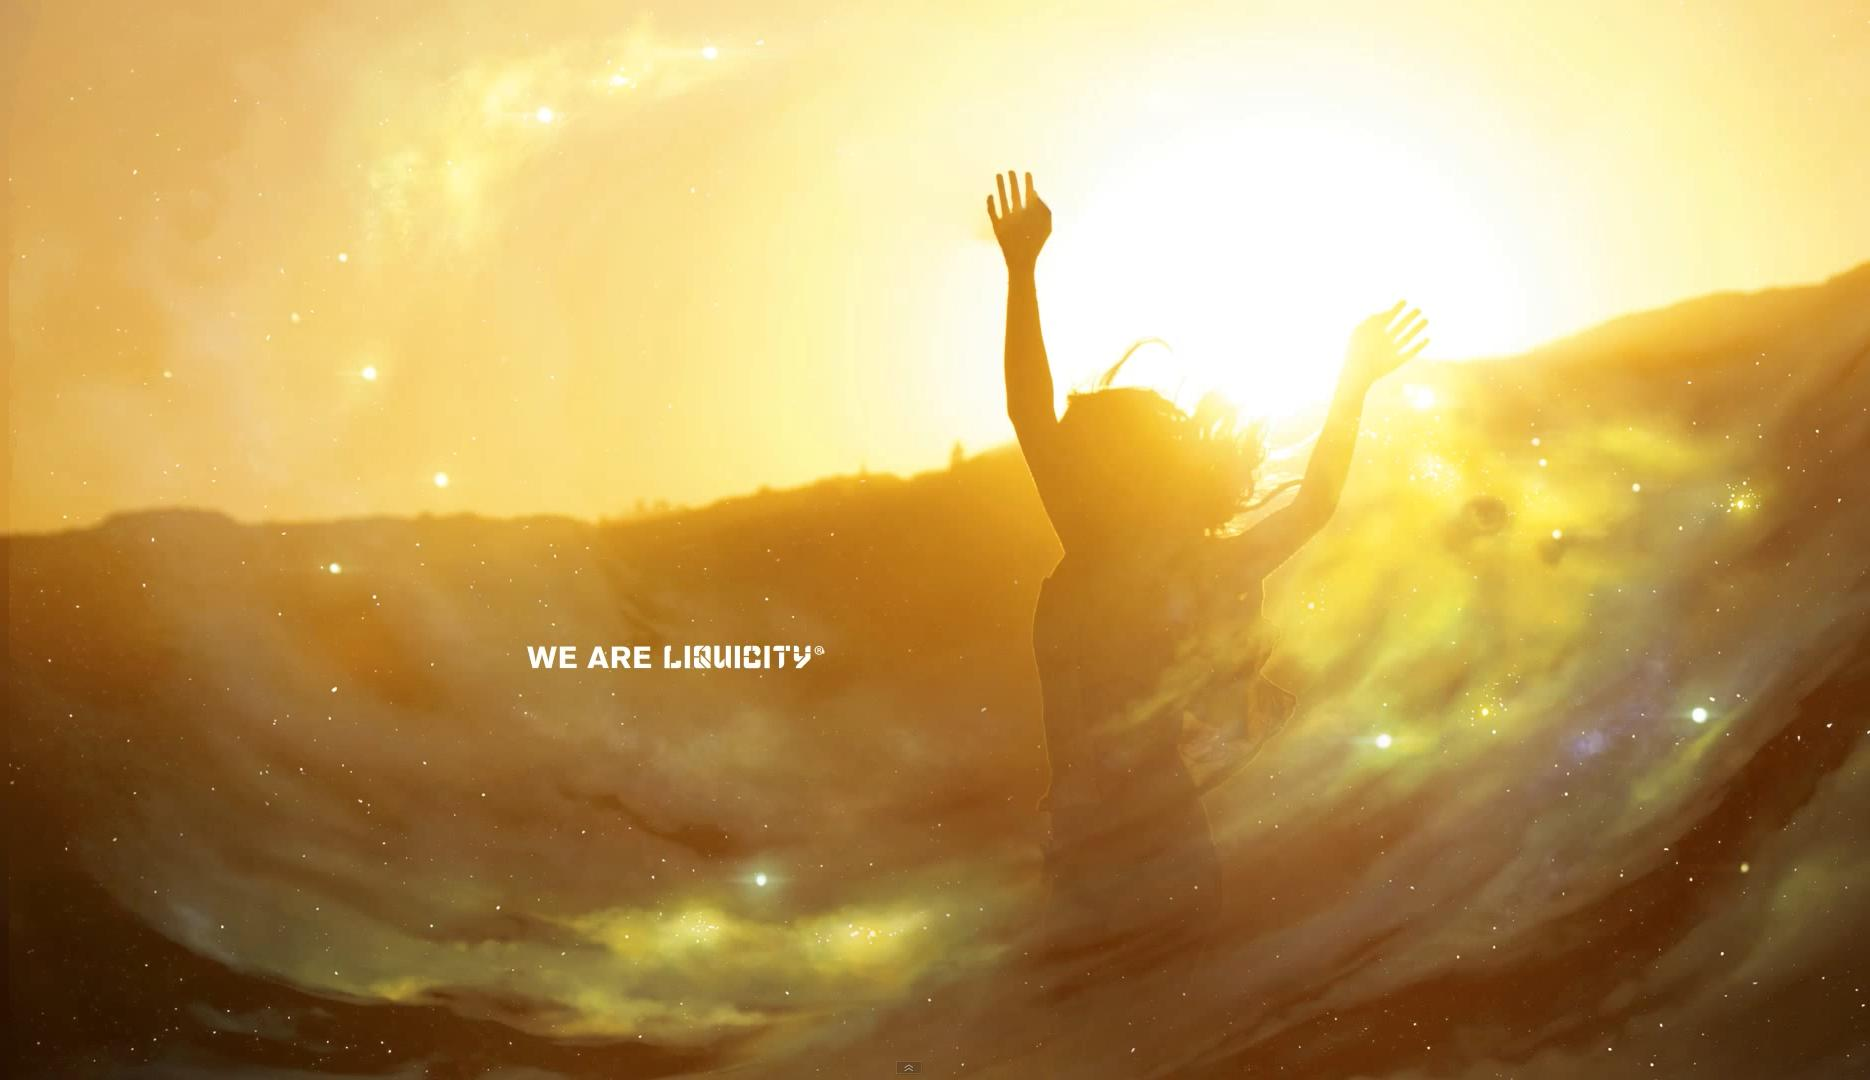
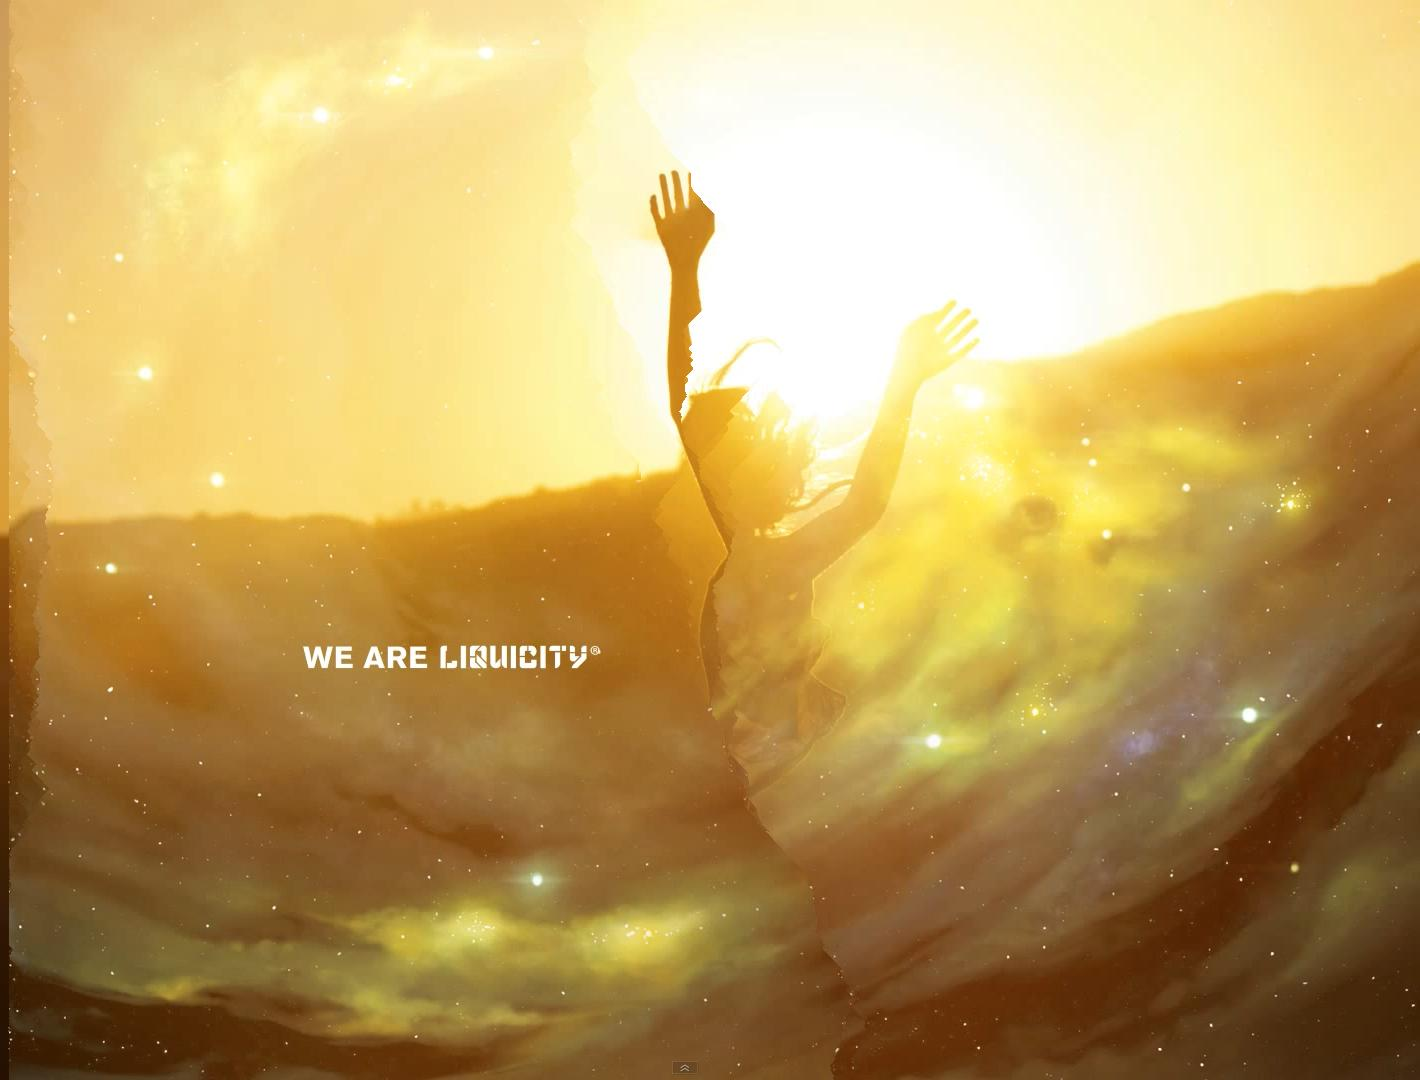
Rework

diff --git a/src/sample/Processor.java b/src/sample/Processor.java
@@ -1,96 +1,41 @@
 package sample;
-import javax.swing.*;
-import java.awt.*;
-import java.awt.image.*;
+import java.awt.image.BufferedImage;
 
 /**
  * Created by Lukado on 23. 11. 2016.
  */
 public class Processor {
 
-    public static void Processor(String args[]) {
+    public Processor() {
         SeamCarving sc = new SeamCarving();
         ImageLoader il = new ImageLoader();
-        int N = 50;	// number of seams want to remove
+        int N = 500;
 
-        // set file path
         String rawImageFilePath="img/weareliq.png";
         String energyImageFilePath="img/energy_weareliq.png";
+        String seamImageFilePath="img/seam_weareliq.png";
         String outputImageFilePath="img/result_weareliq.png";
 
-        // reading the input image
-        System.out.println("Reading input image...");
         BufferedImage rawImage = il.readImage(rawImageFilePath);
-        System.out.println("Successfully Read Image: "+rawImageFilePath);
 
-        // convert color image to gray image
-        System.out.println("\nConverting the image to Gray colors.");
         BufferedImage grayedOut = sc.grayOut(rawImage);
-        System.out.println("Successful...");
-
-        // calculate energy map
-        System.out.println("\nGetting energy image.");
+        il.writeImage(grayedOut, seamImageFilePath, "png");
         BufferedImage gradientImage = sc.gradientFilter(grayedOut);
-        System.out.println("Successful...");
-
-        // write energy map
-        System.out.println("\nWriting energy image to filesystems.");
         il.writeImage(gradientImage,energyImageFilePath , "jpg");
-        System.out.println("Successfully Wrote Image To: "+energyImageFilePath);
-
-        // read energy map
-        System.out.println("Reading input image...");
-        BufferedImage energyImage = il.readImage(energyImageFilePath);
-        System.out.println("Successfully Read Image: "+energyImageFilePath);
-
-        // enlarge energy map
-        System.out.println("\nGetting enlarge energy image.");
-        BufferedImage enlargeEnergyImg = sc.enlargeEnergy(energyImage);
-        System.out.println("Successful...");
-
-        // get cumulative energy map
-        System.out.println("\nGetting cumulative energy image.");
-        double[][] cumulativeEnergyArray = sc.getCumulativeEnergyArray(enlargeEnergyImg);
-        System.out.println("Successful...");
-
-        // iteratively doing seam carving
-        rawImage = il.readImage(rawImageFilePath);
-        double[][] new_cumulativeEnergyArray = cumulativeEnergyArray;
-        BufferedImage removePathImg = rawImage;
-        for (int n = 0; n < N; ++n){
-            System.out.println("\nFinding the path.");
-            int[] path  = sc.findPath(new_cumulativeEnergyArray);
-            System.out.println("Successful...");
-
-            System.out.println("\nRemoving the path in energy array.");
-            new_cumulativeEnergyArray = sc.removePathEnergyArray(new_cumulativeEnergyArray, path);
-            System.out.println("Successful...");
-
-            System.out.println("\nRemoving the path.");
-            removePathImg = sc.removePathFromImage(removePathImg, path);
-            System.out.println("Successful...");
-        }
-
-        // save result
-        System.out.println("\nWriting average image to filesystems.");
-        il.writeImage(removePathImg,outputImageFilePath , "jpg");
-        System.out.println("Successfully Wrote Image To: "+outputImageFilePath);
-
-        // display result
-        display(removePathImg);
-//        System.exit(0);
-    }
-
-
-    /**
-     * This method display an image from the input buffered image
-     * @return void --> display the image in the frame
-     */
-    public static void display(BufferedImage img){
-        JFrame frame = new JFrame("Title of the window :)");
-        JLabel label = new JLabel(new ImageIcon(img));
-        frame.getContentPane().add(label, BorderLayout.CENTER);
-        frame.pack();
-        frame.setVisible(true);
+//
+//        BufferedImage energyImage = il.readImage(energyImageFilePath);
+//        BufferedImage enlargeEnergyImg = sc.enlargeEnergy(energyImage);
+//        double[][] cumulativeEnergyArray = sc.getCumulativeEnergyArray(enlargeEnergyImg);
+//        rawImage = il.readImage(rawImageFilePath);
+//
+//        double[][] new_cumulativeEnergyArray = cumulativeEnergyArray;
+//        BufferedImage removePathImg = rawImage;
+//        for (int n = 0; n < N; ++n){
+//            int[] path  = sc.findPath(new_cumulativeEnergyArray);
+//            new_cumulativeEnergyArray = sc.removePathEnergyArray(new_cumulativeEnergyArray, path);
+//            removePathImg = sc.removePathFromImage(removePathImg, path);
+//        }
+//
+//        il.writeImage(removePathImg, outputImageFilePath, "jpg");
     }
 }

diff --git a/src/sample/Main.java b/src/sample/Main.java
@@ -12,17 +12,16 @@ import javafx.stage.Stage;
 public class Main extends Application {
 
     /** Sirka okna */
-    private static final int WIDTH = 1024;
+    private static final int WIDTH = 800;
     /** Vyska okna */
-    private static final int HEIGHT = 768;
+    private static final int HEIGHT = 600;
 
 
     @Override
     public void start(Stage primaryStage) throws Exception {
         Parent root = FXMLLoader.load(getClass().getResource("sample.fxml"));
-        primaryStage.setTitle("UFO Medical");
+        primaryStage.setTitle("SeamCarving - Petr Lukašík - PRO");
         primaryStage.setScene(new Scene(root, WIDTH, HEIGHT));
-        primaryStage.setMaximized(true);
         primaryStage.show();
     }
 

diff --git a/src/sample/SeamCarving.java b/src/sample/SeamCarving.java
@@ -25,7 +25,7 @@ public class SeamCarving {
      */
     public BufferedImage gradientFilter (BufferedImage img){
         int type = img.getType();
-        System.out.println("image type is" + type);
+        System.out.println("image type is " + type);
         int width = img.getWidth();
         int height = img.getHeight();
         BufferedImage temp_img1 = new BufferedImage(width, height, type);

diff --git a/src/sample/Controller.java b/src/sample/Controller.java
@@ -1,7 +1,13 @@
 package sample;
 
+import javafx.event.ActionEvent;
+
 /**
  * Created by Lukado on 23. 11. 2016.
  */
 public class Controller {
+
+    public void solve(ActionEvent actionEvent) {
+        Processor prcs = new Processor();
+    }
 }

diff --git a/README.md b/README.md
@@ -1,1 +1,2 @@
 # SeamCarving_PRO
+Lukádovo masakry s obrázkama #Grafik #drsnejtejpek
